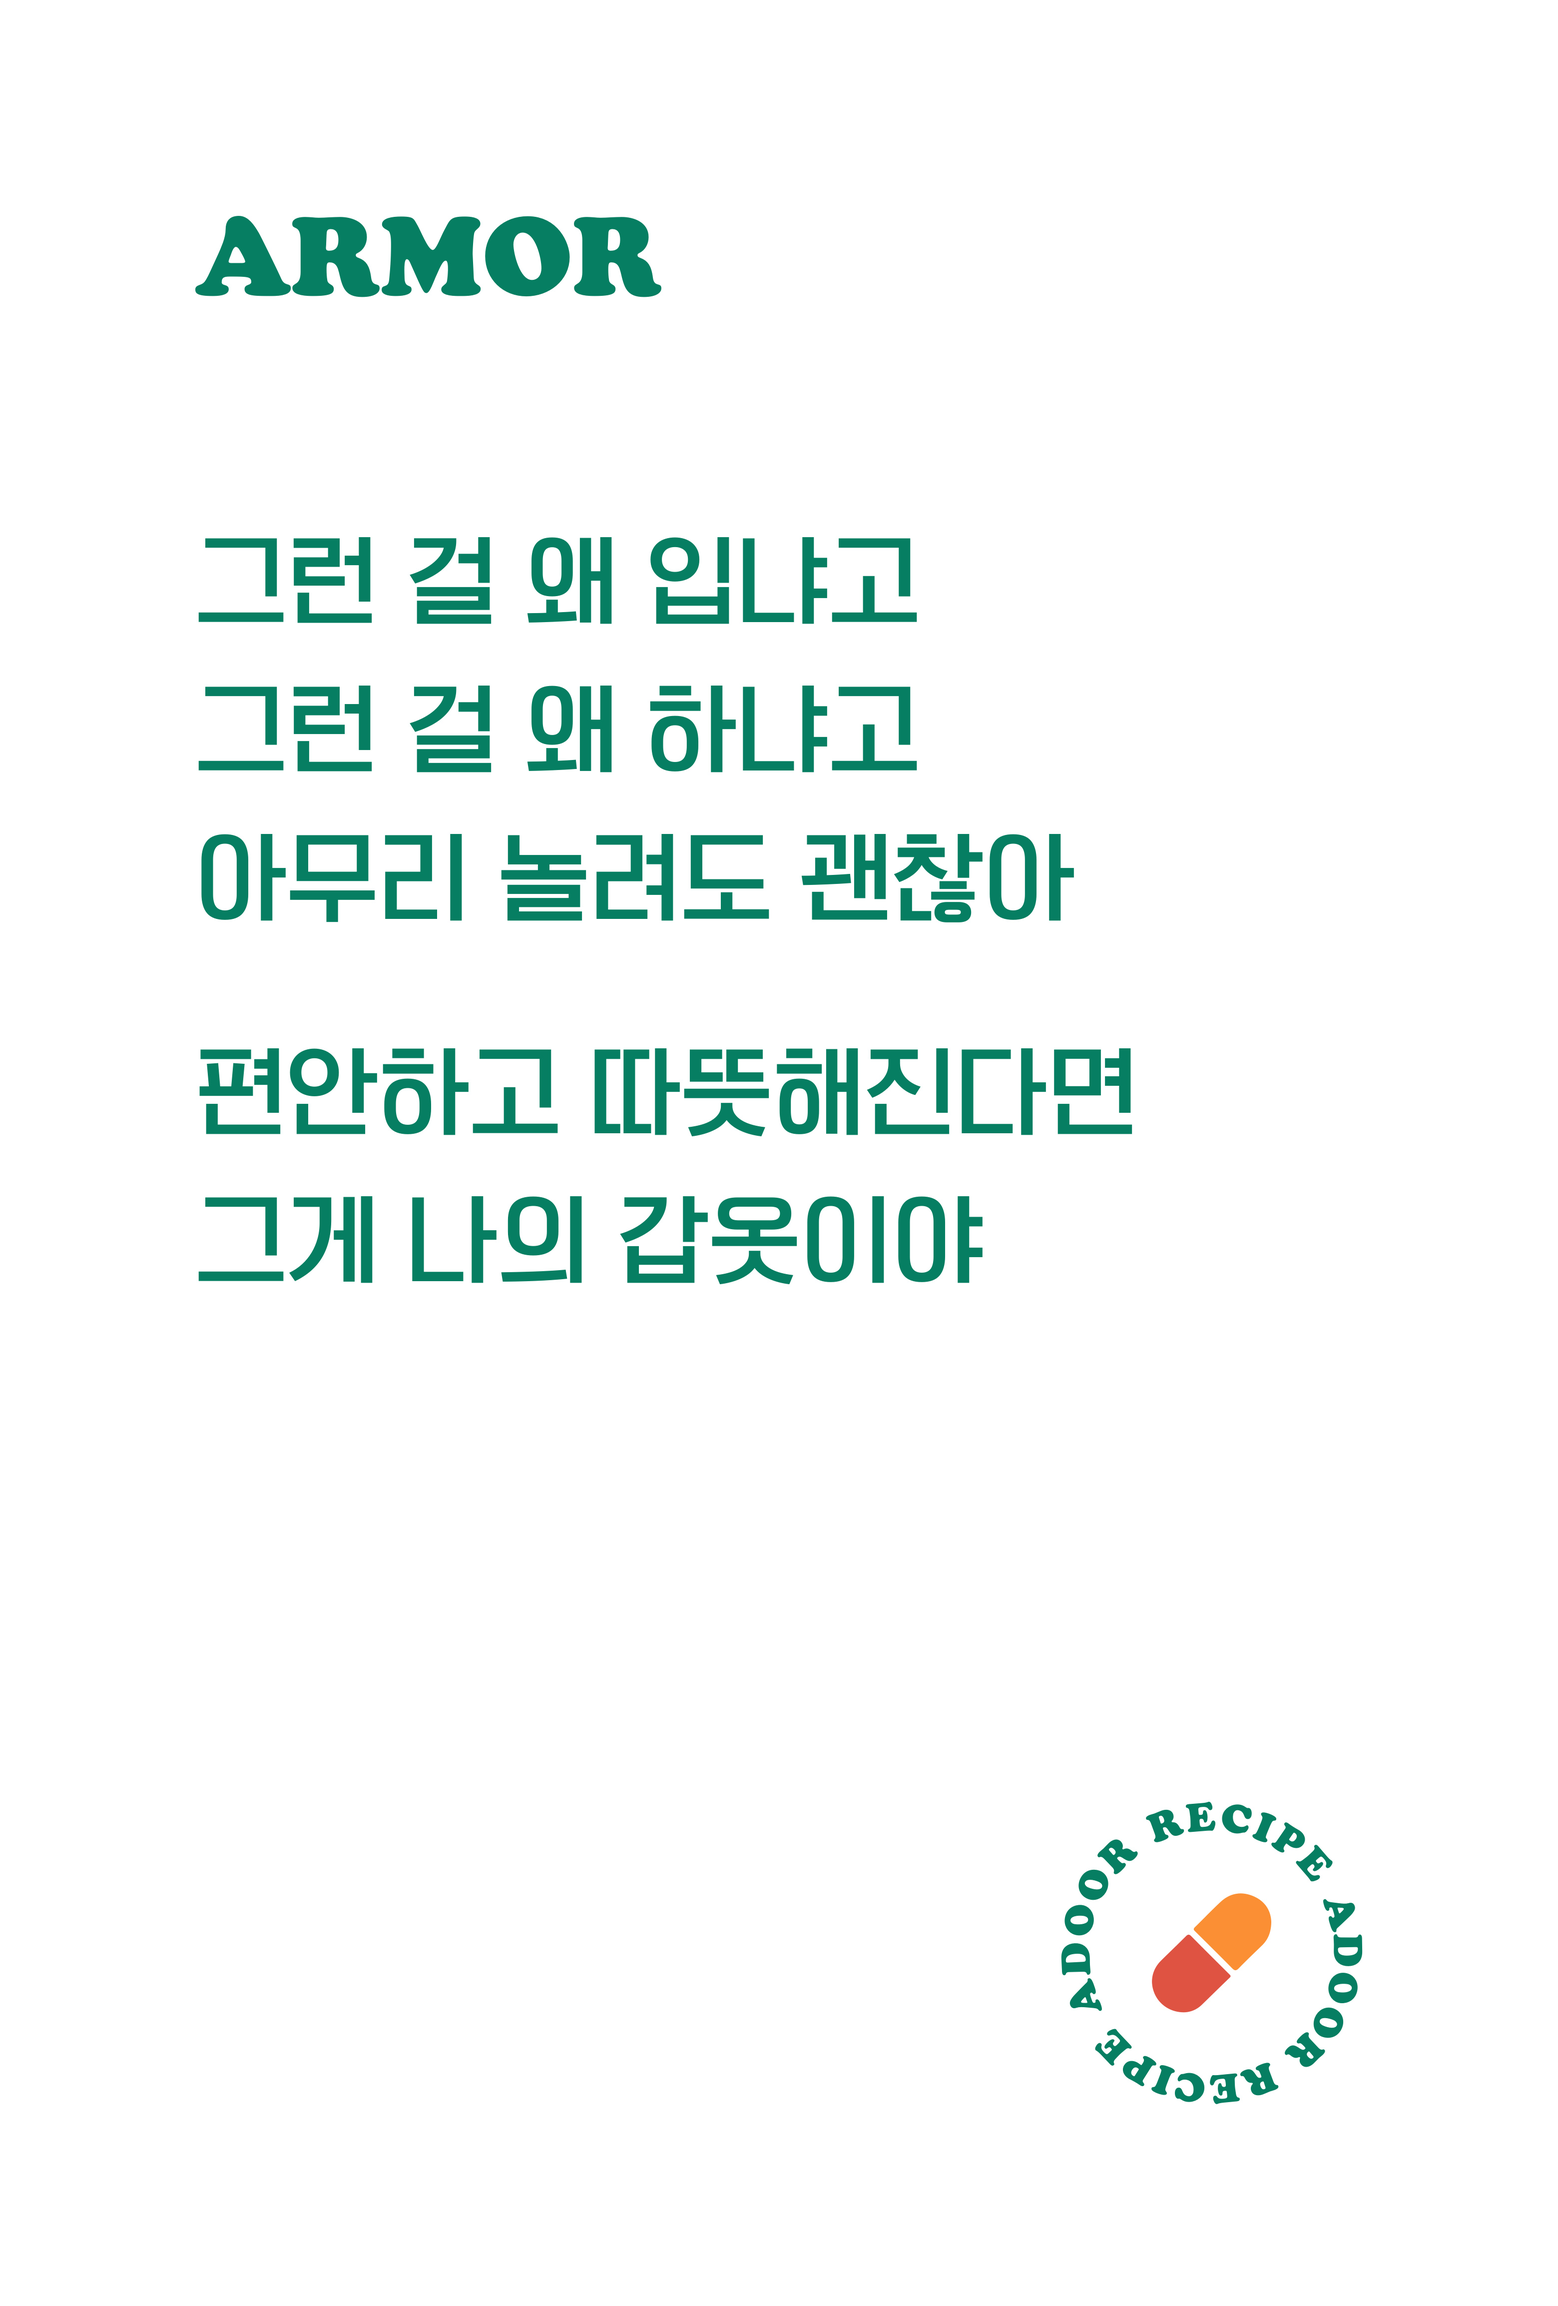
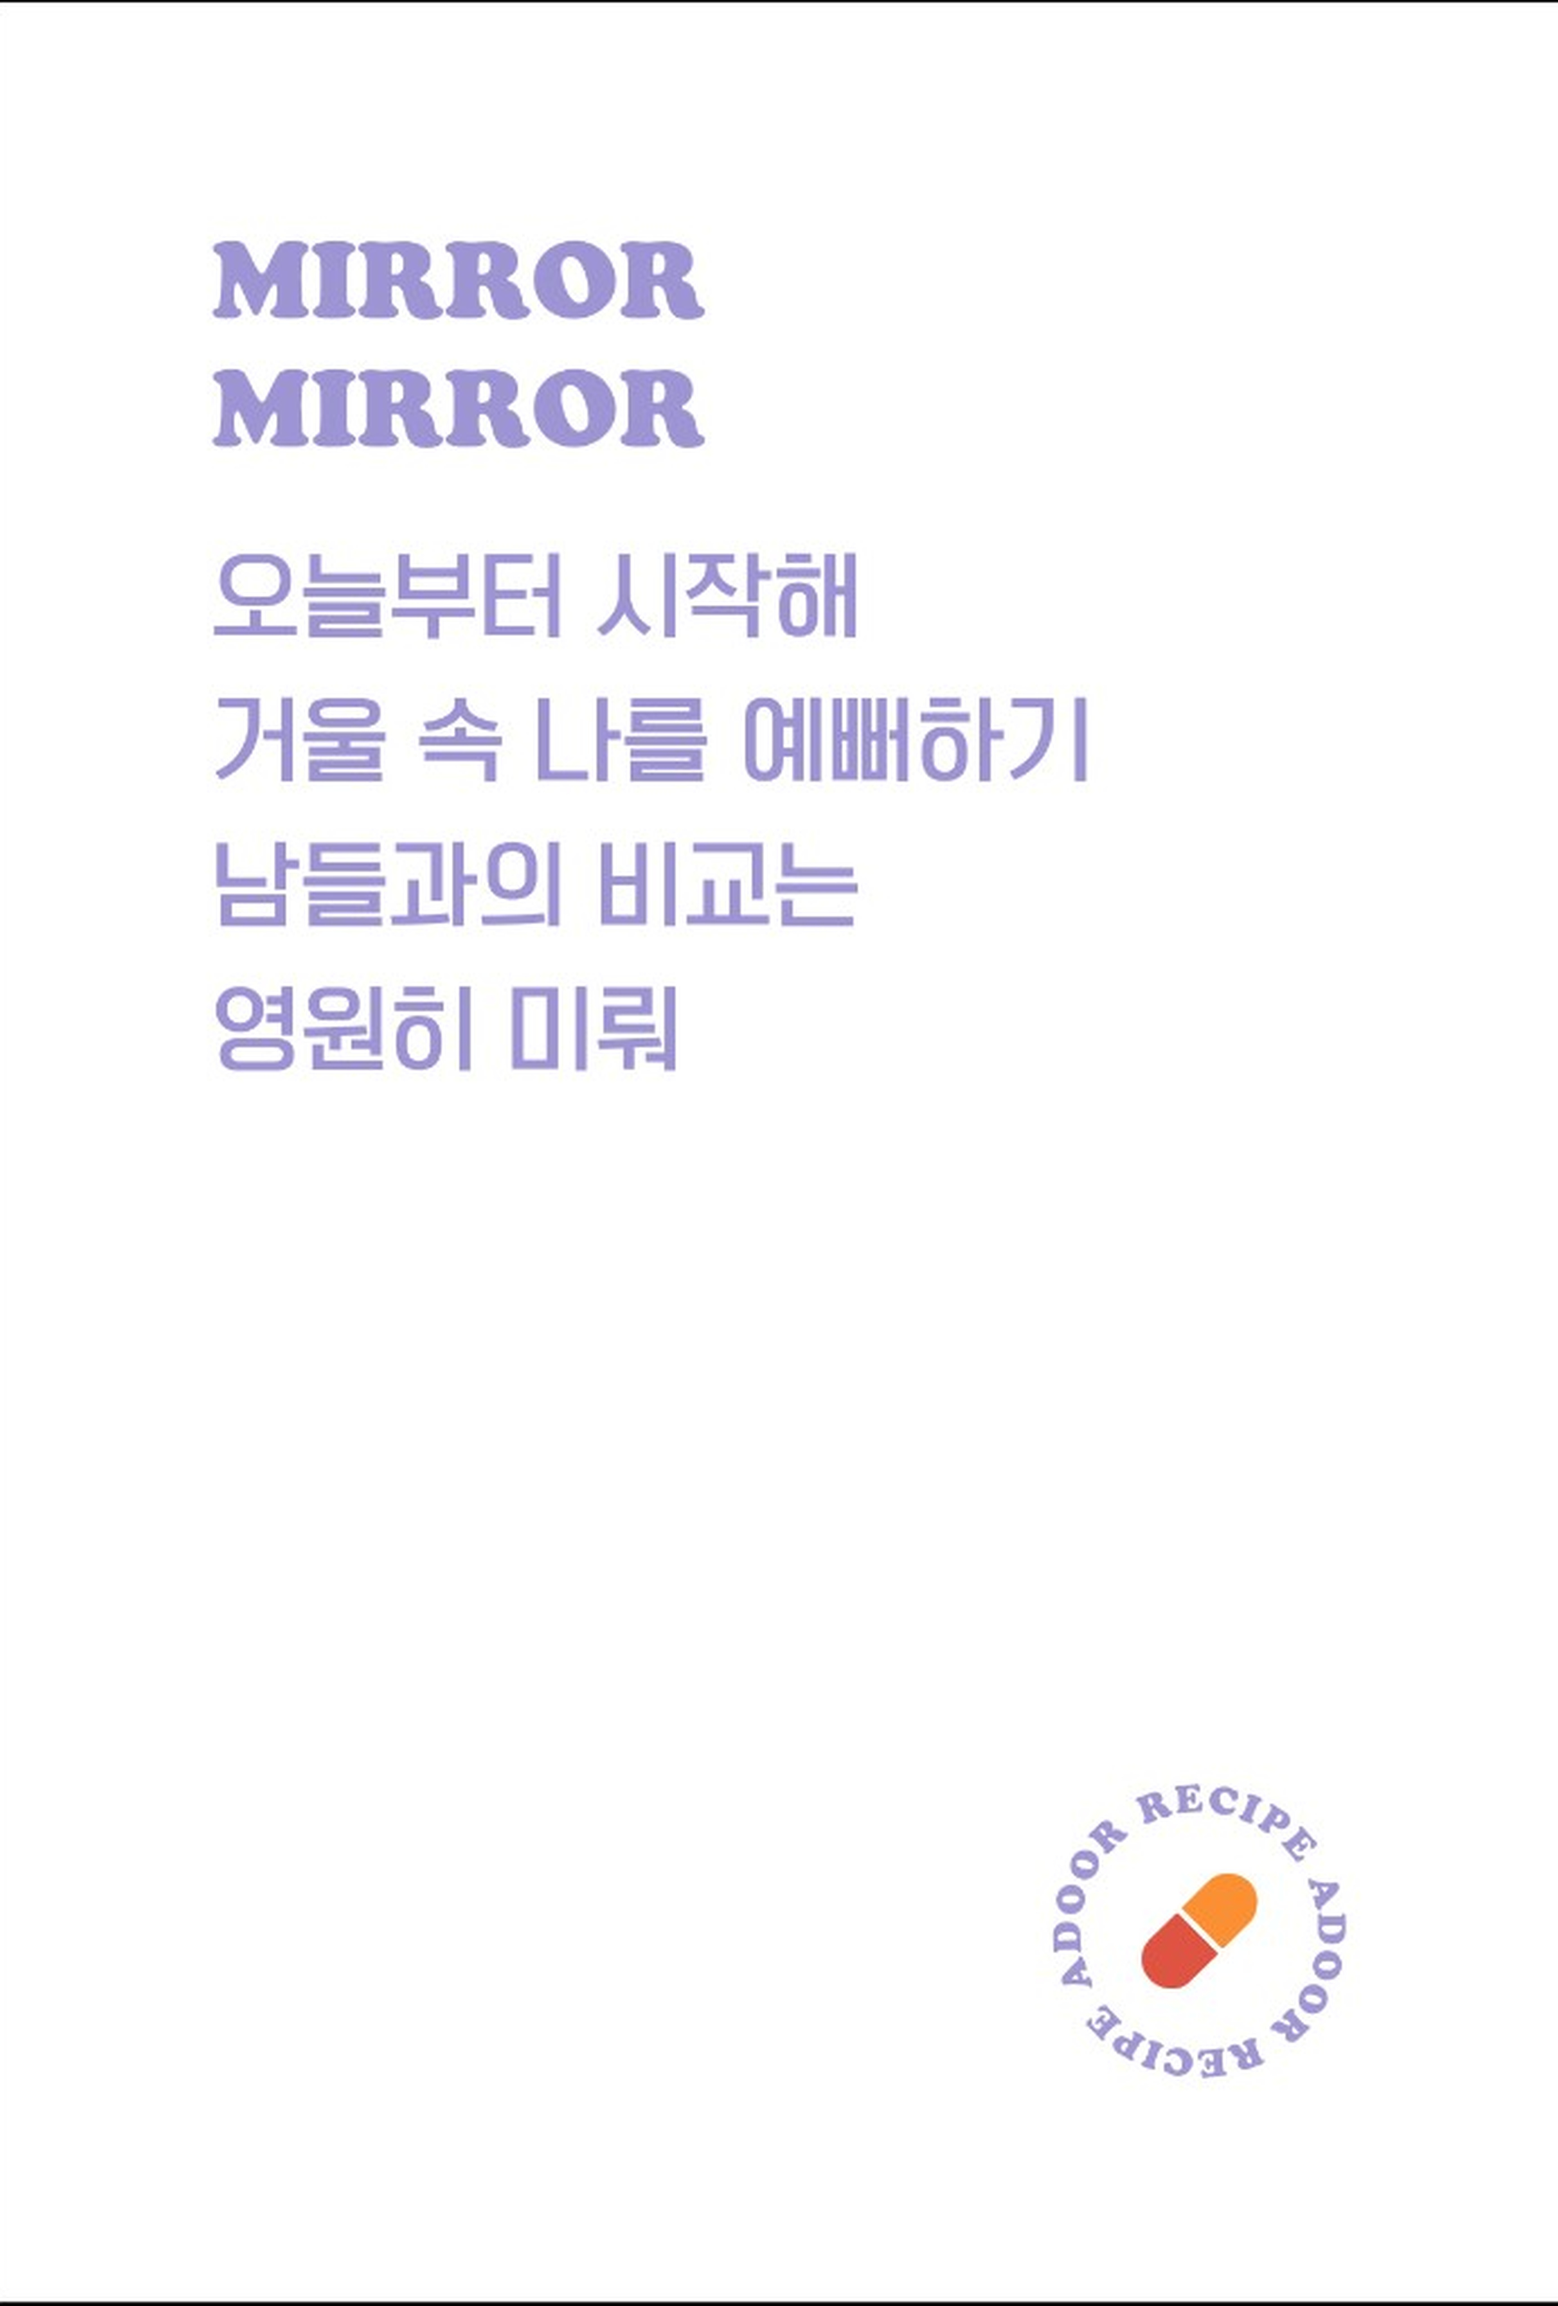
feat: 갑옷장착을 미러미뤄로 교체하고 괜찮타코 카드 추가
flip 2번 카드를 미러미뤄로 바꾸고, 17번 괜찮타코 앞·뒷면을 추가한다.

Changed region(s): [[0.1244, 0.0936, 0.7464, 0.5616], [0.0, 0.9985, 1.0, 1.0], [0.6531, 0.7801, 0.8708, 0.9361]]

diff --git a/app/components/flip/flipCardConfig.ts b/app/components/flip/flipCardConfig.ts
@@ -35,7 +35,7 @@ export function getTextCardDisplaySize(devicePixelRatio = 1, containerCssWidth?:
 /** 260609_컬러폰트_긍정뷔페_폰트수정 PDF 앞면 / postcard PDF 뒷면 (11x 추출) */
 const CARD_FRONT_WIDTH = 3119;
 const CARD_FRONT_HEIGHT = 4615;
-const CARD_DIMENSIONS: Array<[number, number]> = Array.from({ length: 16 }, () => [
+const CARD_DIMENSIONS: Array<[number, number]> = Array.from({ length: 17 }, () => [
   CARD_FRONT_WIDTH,
   CARD_FRONT_HEIGHT,
 ]);

diff --git a/scripts/extract_flip_cards.py b/scripts/extract_flip_cards.py
@@ -1,4 +1,4 @@
-"""PDF에서 flip 카드 16종 앞·뒷면 이미지 추출."""
+"""PDF에서 flip 카드 앞·뒷면 이미지 추출."""
 from __future__ import annotations
 
 import io
